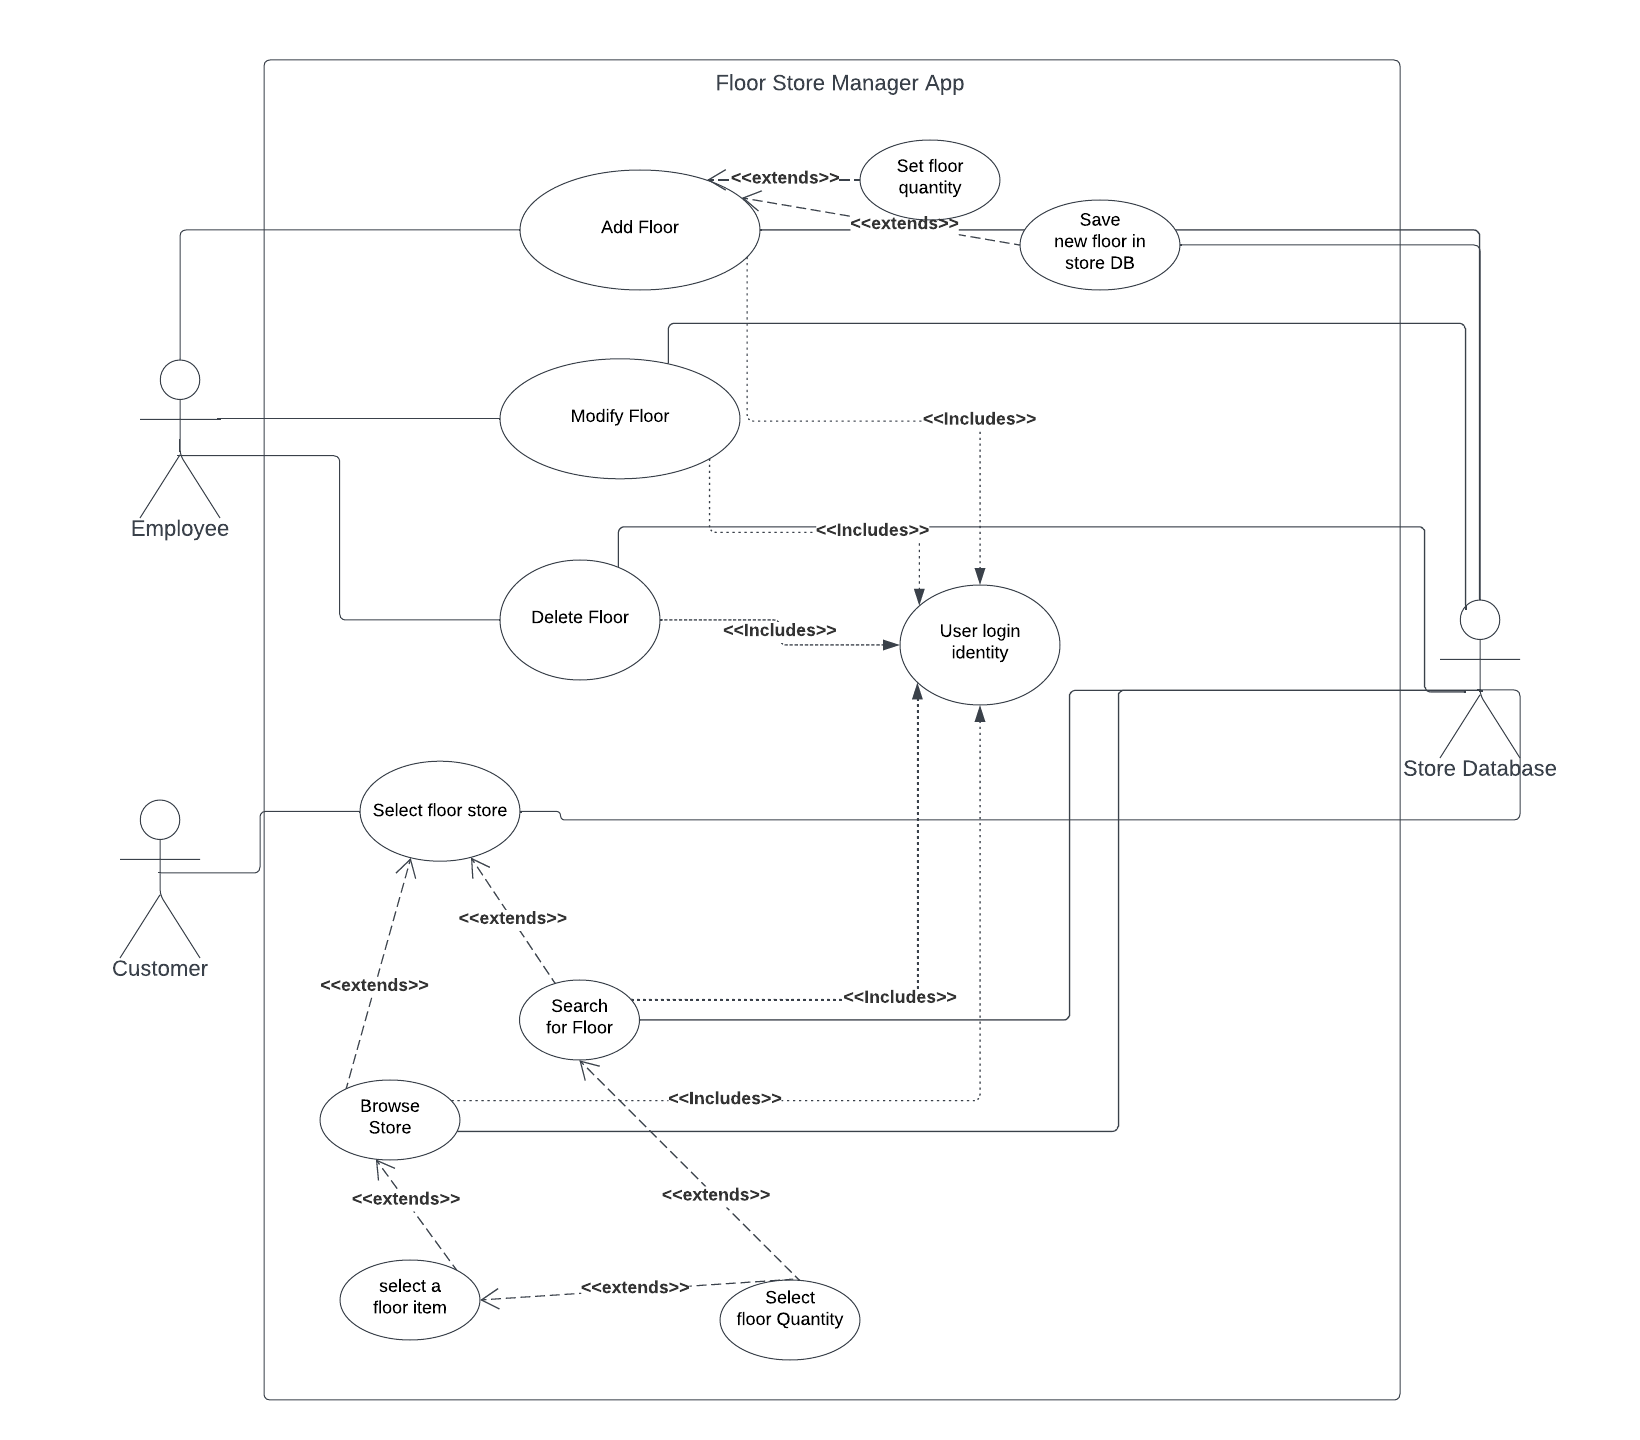
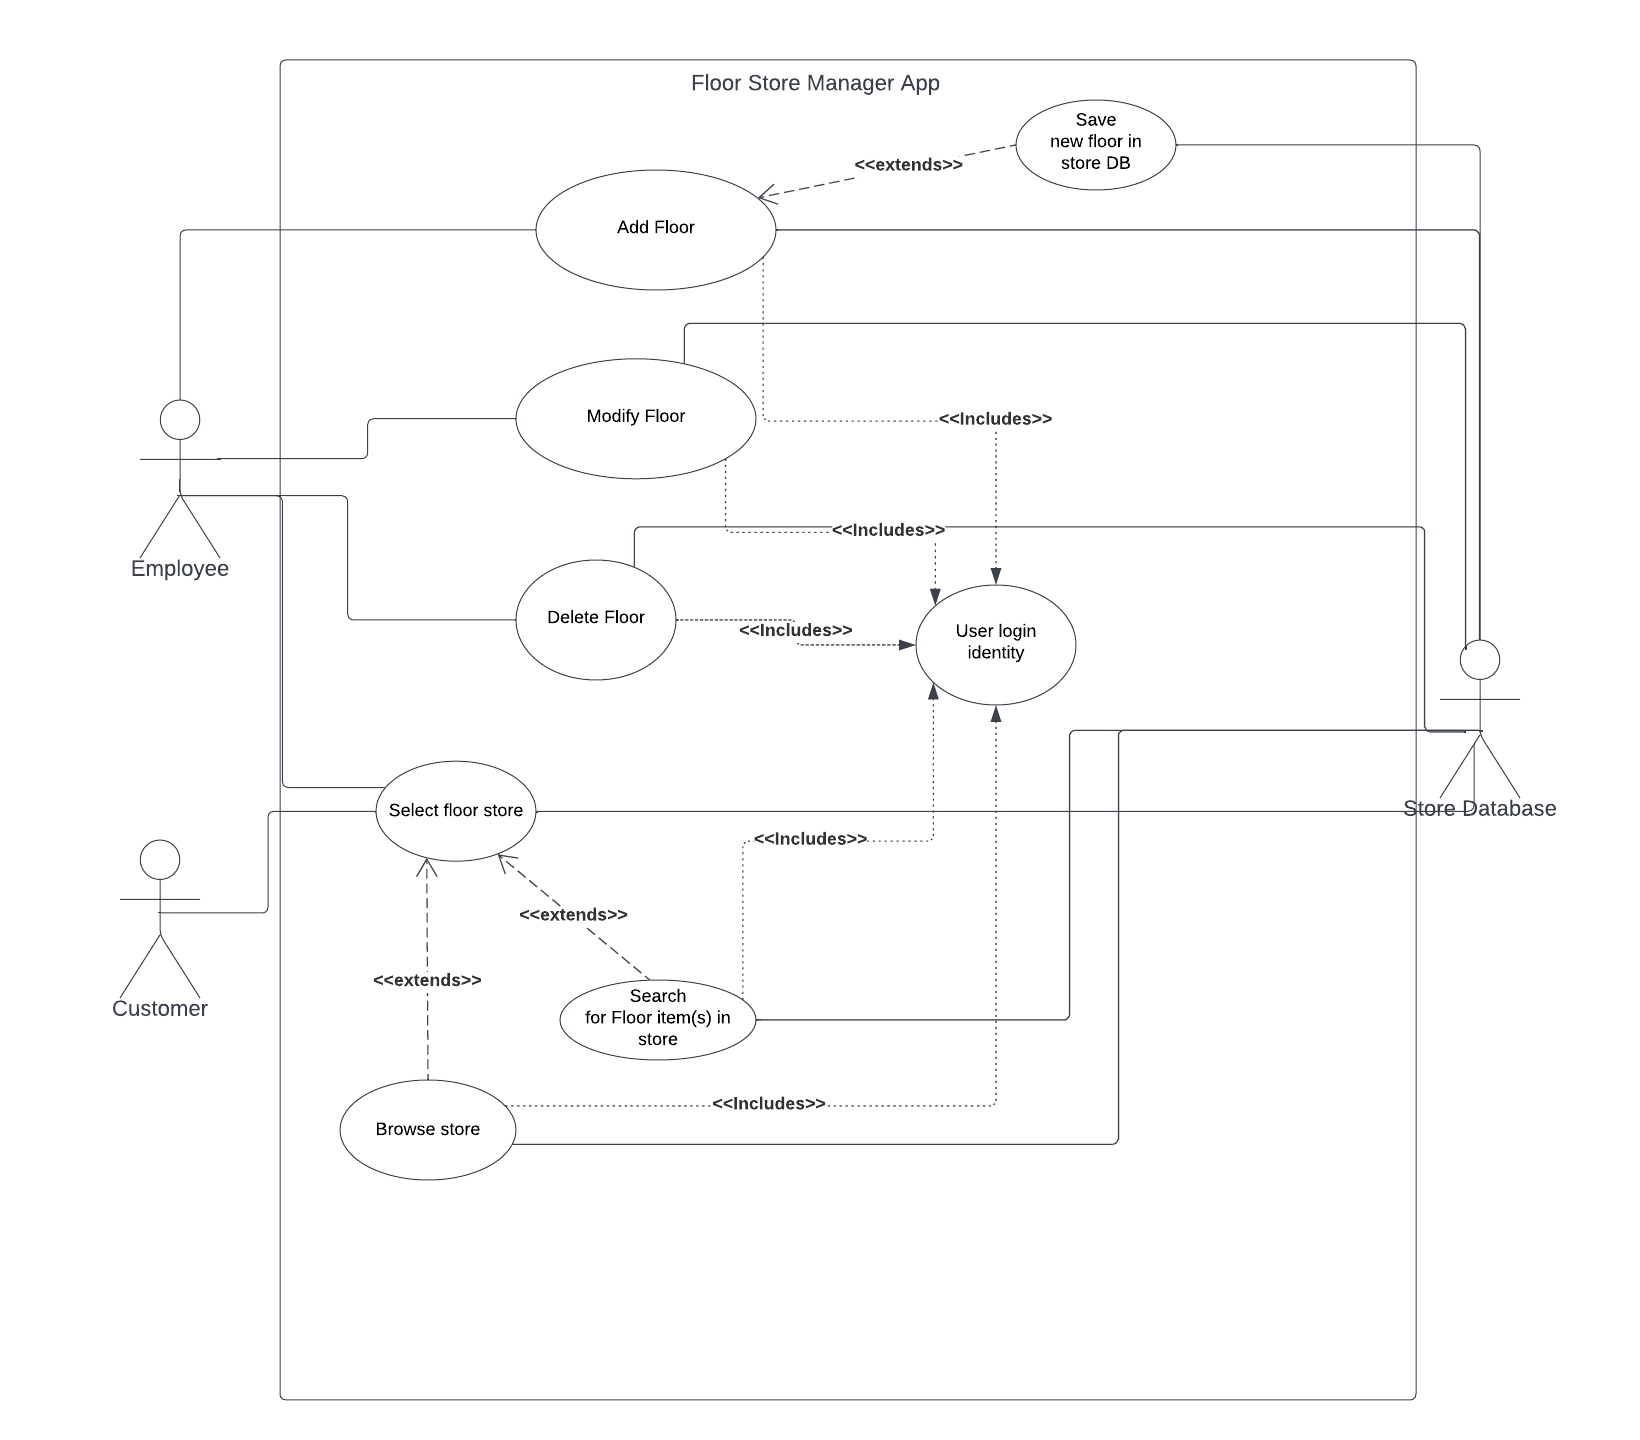
useCasemodel update 2

diff --git a/GroupProject/Docs/UseCaseModel.md b/GroupProject/Docs/UseCaseModel.md
@@ -1,16 +1,61 @@
 # Use Case Model
 
-
-**Author**: Team 1
+**Author**: Dimitry Gallego
 
 ## 1 Use Case Diagram
 ![](../Resources/useCase-diagram.png)
 
+
 ## 2 Use Case Descriptions
 
-*For each use case in the use case diagram, this section should contain a description, with the following elements:*
+### 1. Add Floor Product:
+- Requirements: Allow Employee user to add a floor to the store inventory
+- Pre-conditions: The User is authenticated as an employee and the floor doesn't exist in the store database.
+- Post-conditions: A new floor is added and stored in the stores database
+- Scenarios:
+    - Normal:
+           When the employee wants to add a new floor item in a store, the user will click on the add floor option and specify the store. This will open up another page. the employee will fill out all the required specifications of the new floor item.if the queantity of an item is not specified a default value will be set when the employee select "add floor"
+    - Exception:
+        when the employee tries to add a new floor item to the store and the system detects that the floor item already exists, the system will prompt the user with a message indicating that the floor item already excists. the system will ask the user if they instead want to modify the existing floor item.
+    - Exception:
+        The user is clicking "add floor" but hasnt filled all required fields for the floor item.
 
-- *Requirements: High-level description of what the use case must allow the user to do.*
-- *Pre-conditions: Conditions that must be true before the use case is run.*
-- *Post-conditions Conditions that must be true once the use case is run.*
-- *Scenarios: Sequence of events that characterize the use case. This part may include multiple scenarios, for normal, alternate, and exceptional event sequences. These scenarios may be expressed as a list of steps in natural language or as sequence diagrams.*
+
+### 2. Modify Floor Product
+- Requirements: Allows an employee to modify existing floor products in the stores inventory
+- Pre-conditions: The user is authenticated as an employee and the floor item exists in the stores database.
+- Post-conditions: The floor item information is modified
+- Scenarios:
+    - Normal:
+        the employee can browse the store for the floor item and type in the floor item in the search field. once the floor is found, employee user will click on "modify floor" button on the floor page. The system will display an interface that allows user to edit the floor attributes.the user can then submit change to save them to the store database. after modification of the product, the user should see a confirmation message saying it was a success
+    - Exceptional: 
+    user searches for floor item in a store and it doesn't exist in the store database. A message will display asking the user if they want to add this floor item to the store
+
+
+### 3. Delete Product:
+- Requirements: Allows an employee to remove an existing product from the store inventory.
+- Pre-conditions: User is an employee with appropriate permissions to perform the delete action of a floor item. Floor item must exist in the store inventory.
+- Post-conditions: The system removes the floor product from the database and the product is no longer displayed on the stores page or search results.
+    - Normal: 
+    the user can browse or search for the floor item by its name in the store. once the user is on the floor page, the user selects the "delete" option. the system prompts the user to confirm the deletion.
+
+
+### 4. Search for Floor item in store:
+- Requirements: Allows users to look up a specific floor product either by name or by selecting a category and type.
+- Pre-conditions: This search bar functionality is accessible from the stores homepage.
+- Post-conditions: The system queries the store's data base for the matching floor product and returns a list of the floors attributes on the store data base.
+- Scenarios:
+    - Normal: Search bar, or drop-down menu
+    When a user wants to search for a floor item in a store, they first select a store that will bring them to the home page of that store. the user then either type the name of the floor they are looking for in the search bar or select a category and type of floor(s) they are interested in from the drop-down menu. Once the user initiates the search, the system queries the store's database for the matching flors(s). if the user's search query matches one or more floors in the stores inventory, the system displays all attributes and informations about the floor(s) that match the search criteria. this may include floor, descriptions, prices, store quantity and images.
+
+    - Exceptional:
+    The user's search query does not match any floor(s) in the store inventory, the system will display a message indicating that no floors were found
+
+
+### 5. Browse store:
+- Requirements: Allows a user to browse the floor inventory of the selected store
+- Pre-conditions: The User must select a store from the apps home page
+- Post-condition: The system displays all information of the floor, including its description, price, quantity, images and any other relevant details.
+- Scenarios:
+    - Normal:
+    User selects a store, taking them to the store homepage. the homepage displays all the floor(s) available for purchase in the store. The user can scroll through the list of products to find the ones they are interested in. the system will also provide filters to narrow down the list of floors by category, type and price.
